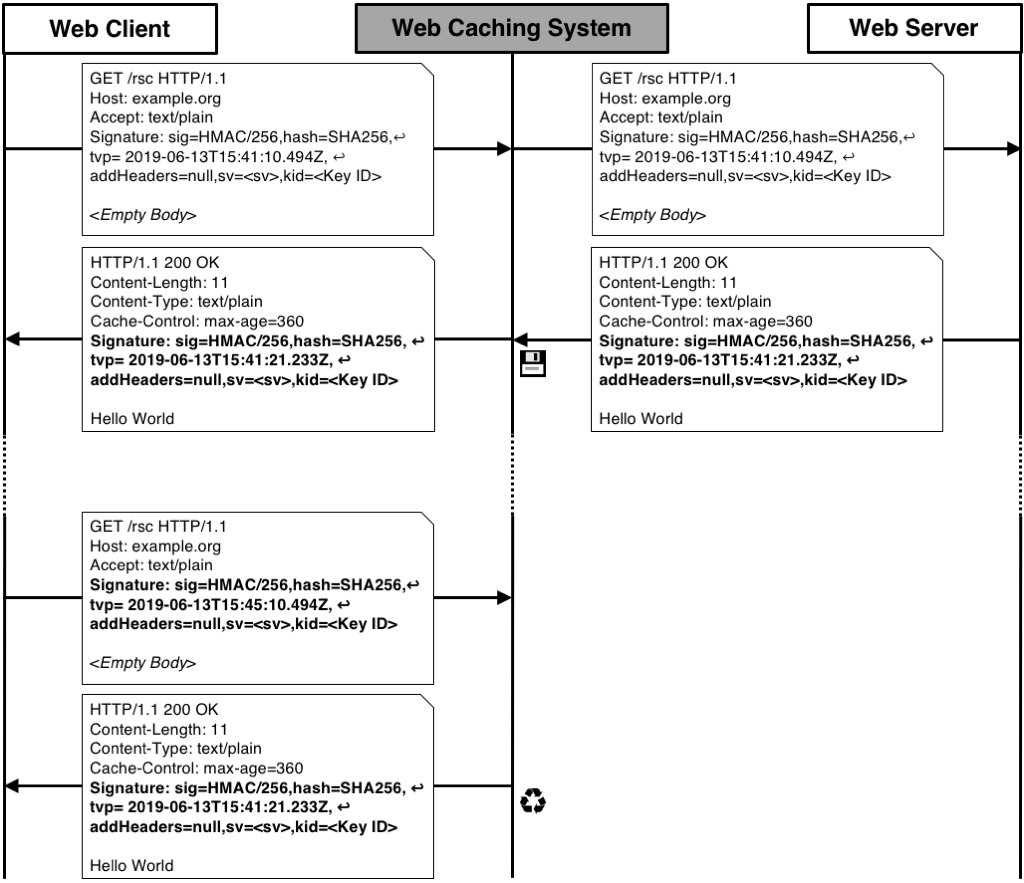
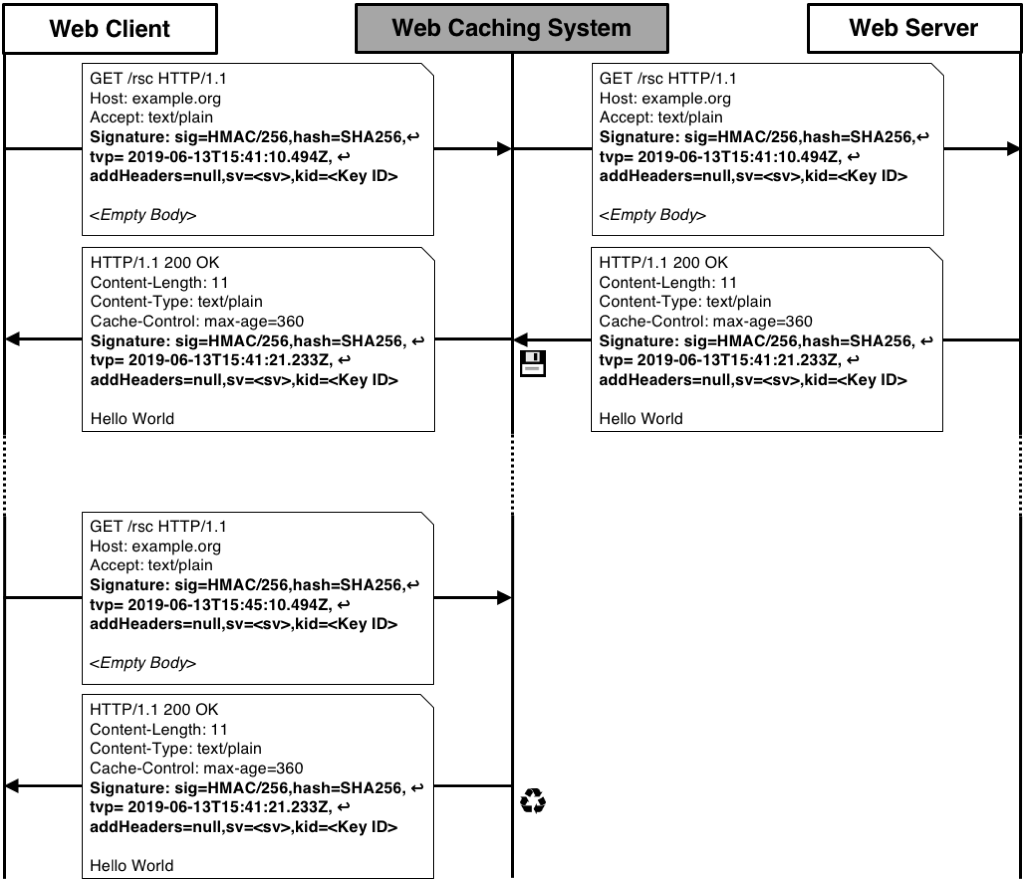
update README

Changed region(s): [[0.5625, 0.1223, 0.9062, 0.214], [0.0938, 0.1223, 0.4062, 0.214]]

diff --git a/README.md b/README.md
@@ -3,7 +3,7 @@ CREHMA stands for Cache-ware REST-ful HTTP Message Authentication. It is an end-
 CREHMA.js is designed to be used in any Javascript-based environemt such as Node, vert.x or in the Webbrowser. 
 
 # How does it works?
-CREHMA creates a digital signature over the whole HTTP message by concatenating the security-critical headers and the body to a string. This concatenated string is then signed by a given key. The signature value in conjunction with signature meta data is then included the Signature header. The other endpoint, i.e client or server, verifies the message's authenticity and integrity by validating the signature value in the Signature header. 
+CREHMA creates a digital signature over the whole HTTP message by concatenating the security-critical headers and the body to a string. This concatenated string is then signed by a given key. The signature value in conjunction with signature meta data is then included the Signature header. The other endpoint, i.e client or server, verifies the message's authenticity and integrity by validating the signature value in the Signature header with a given key. 
 
 The figure below shows an example message flow which protected by CREHMA. 
 <!-- ![CREHMA protected message flow](https://github.com/hvnguyen86/crehma.js/blob/master/images/message_flow_fl.png "CREHMA protected message flow") -->
@@ -12,6 +12,14 @@ The figure below shows an example message flow which protected by CREHMA.
 	width="50%" />
 <img src="https://github.com/hvnguyen86/crehma.js/blob/master/images/CREHMA_message_flow_fl.png" alt="Kitten"
 	width="50%" /> -->
+The appended Signature header is marked in bold. CREHMA are compatible  with caches. Signed response messages can be stored and reused by caches as shown be the figure. If client received a reused response message from the cache then it needs to verify signature freshness in addition to the signature value. In this example, the signature freshness is calculated from the time stamp of tvp parameter and the max-age value of the Cache-Control header. The seconds in max-age (360) are then added to the tvp value (). 
+
+```
+2019-06-13T15:45:10.494Z + 360 <= <current_time>
+```
+
+The signature freshness is valid, If the sum is lower then the current time.
+
 
 Let's assume that the following HTTP request message 
 
